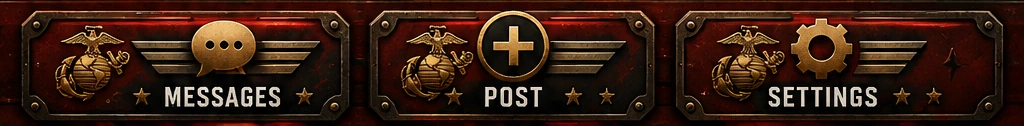
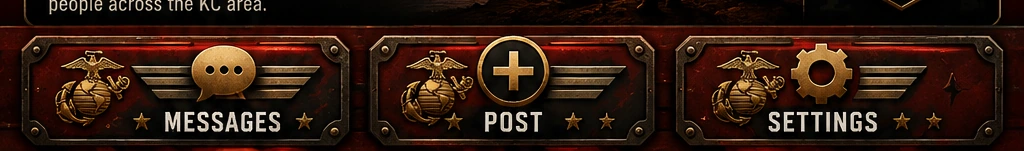
Add files via upload

diff --git a/app/globals.css b/app/globals.css
@@ -3818,3 +3818,36 @@ input::placeholder,textarea::placeholder{color:currentColor!important;opacity:.7
     object-position:center !important;
   }
 }
+
+
+/* === Marines bottom-nav render fix === */
+@media(max-width:639px){
+  .nkc-mobile-bottom-nav[data-theme="marines"]{
+    height:82px !important;
+    min-height:82px !important;
+    max-height:82px !important;
+    padding:0 !important;
+    background-image:url('/marines-scene/marines_nav.webp') !important;
+    background-size:100% 100% !important;
+    background-position:center center !important;
+    background-repeat:no-repeat !important;
+    background-color:#250704 !important;
+    overflow:hidden !important;
+  }
+  .nkc-mobile-bottom-nav[data-theme="marines"] .nkc-nav-label,
+  .nkc-mobile-bottom-nav[data-theme="marines"] .nkc-custom-theme-nav-icon,
+  .nkc-mobile-bottom-nav[data-theme="marines"] .nkc-custom-theme-plus-icon{
+    opacity:0 !important;
+  }
+  .nkc-mobile-bottom-nav[data-theme="marines"] .nkc-bottom-nav-orb-item,
+  .nkc-mobile-bottom-nav[data-theme="marines"] .nkc-bottom-nav-plus{
+    width:33.333% !important;
+    flex:1 1 33.333% !important;
+    height:82px !important;
+    margin:0 !important;
+    padding:0 !important;
+    background:transparent !important;
+    border:0 !important;
+    box-shadow:none !important;
+  }
+}
